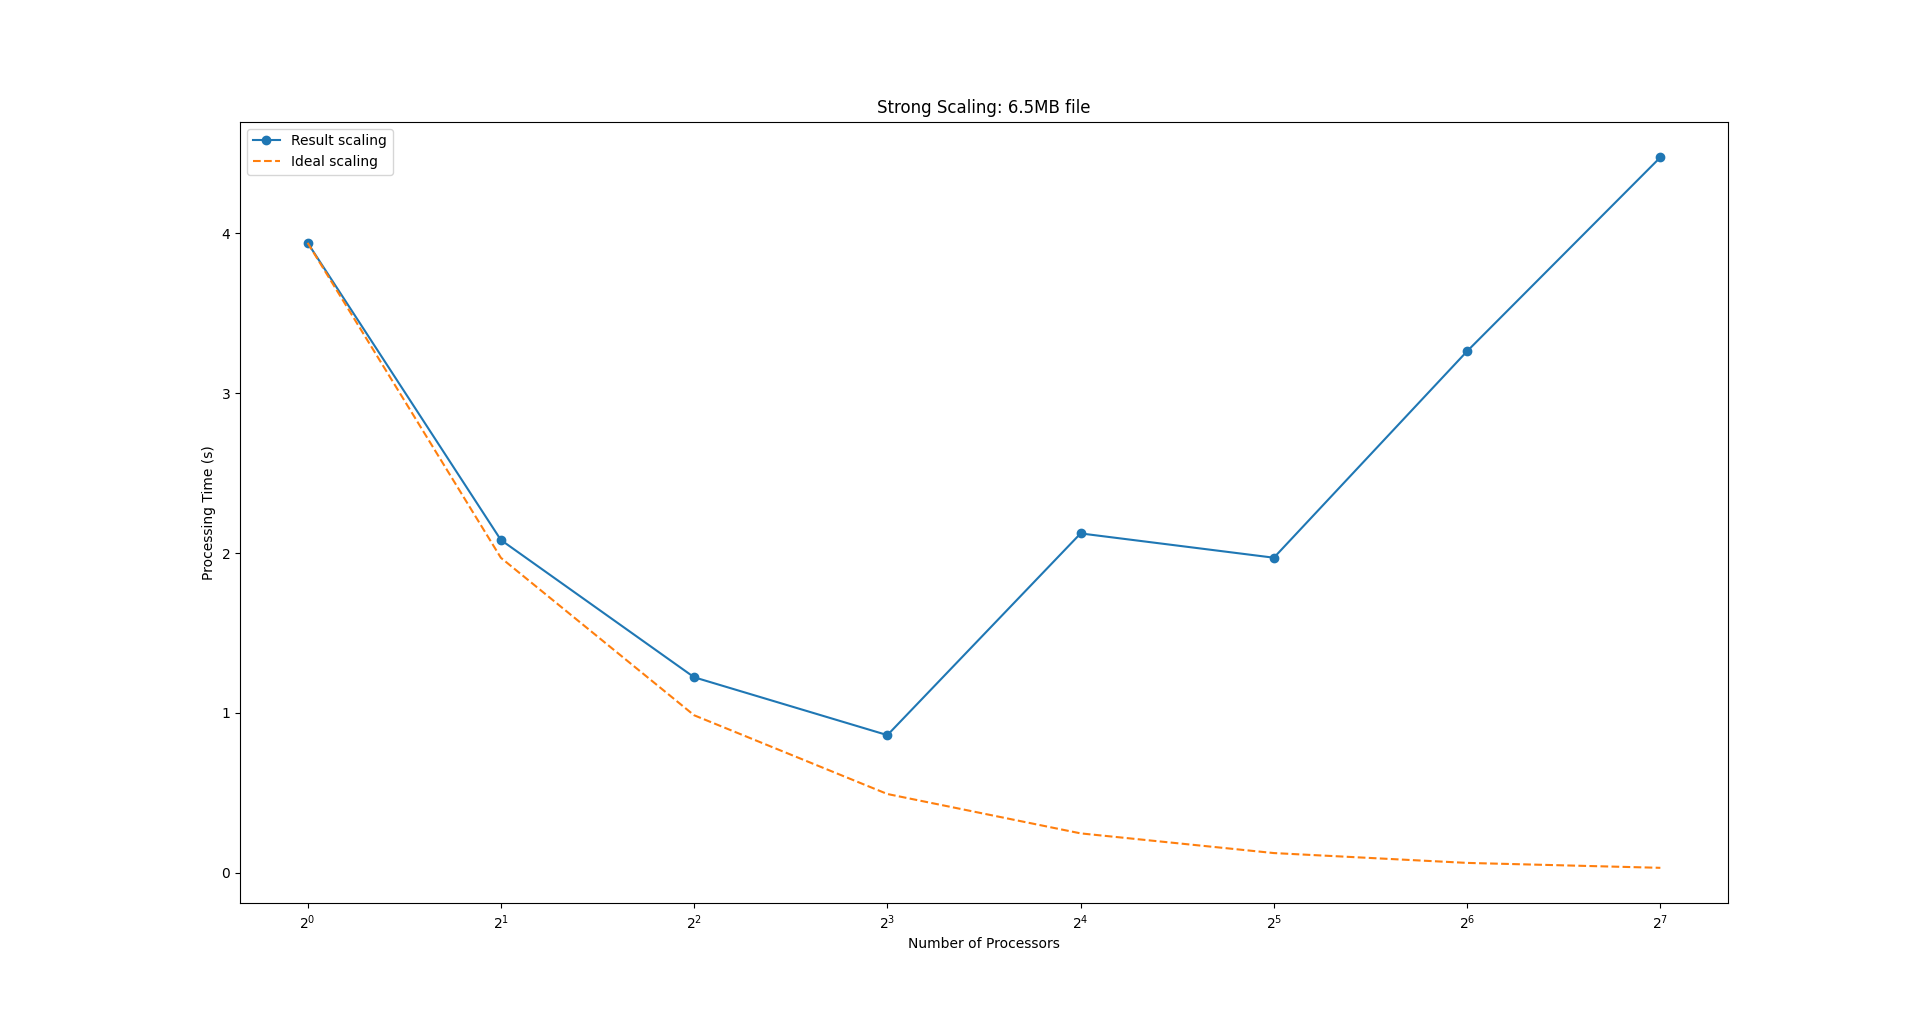
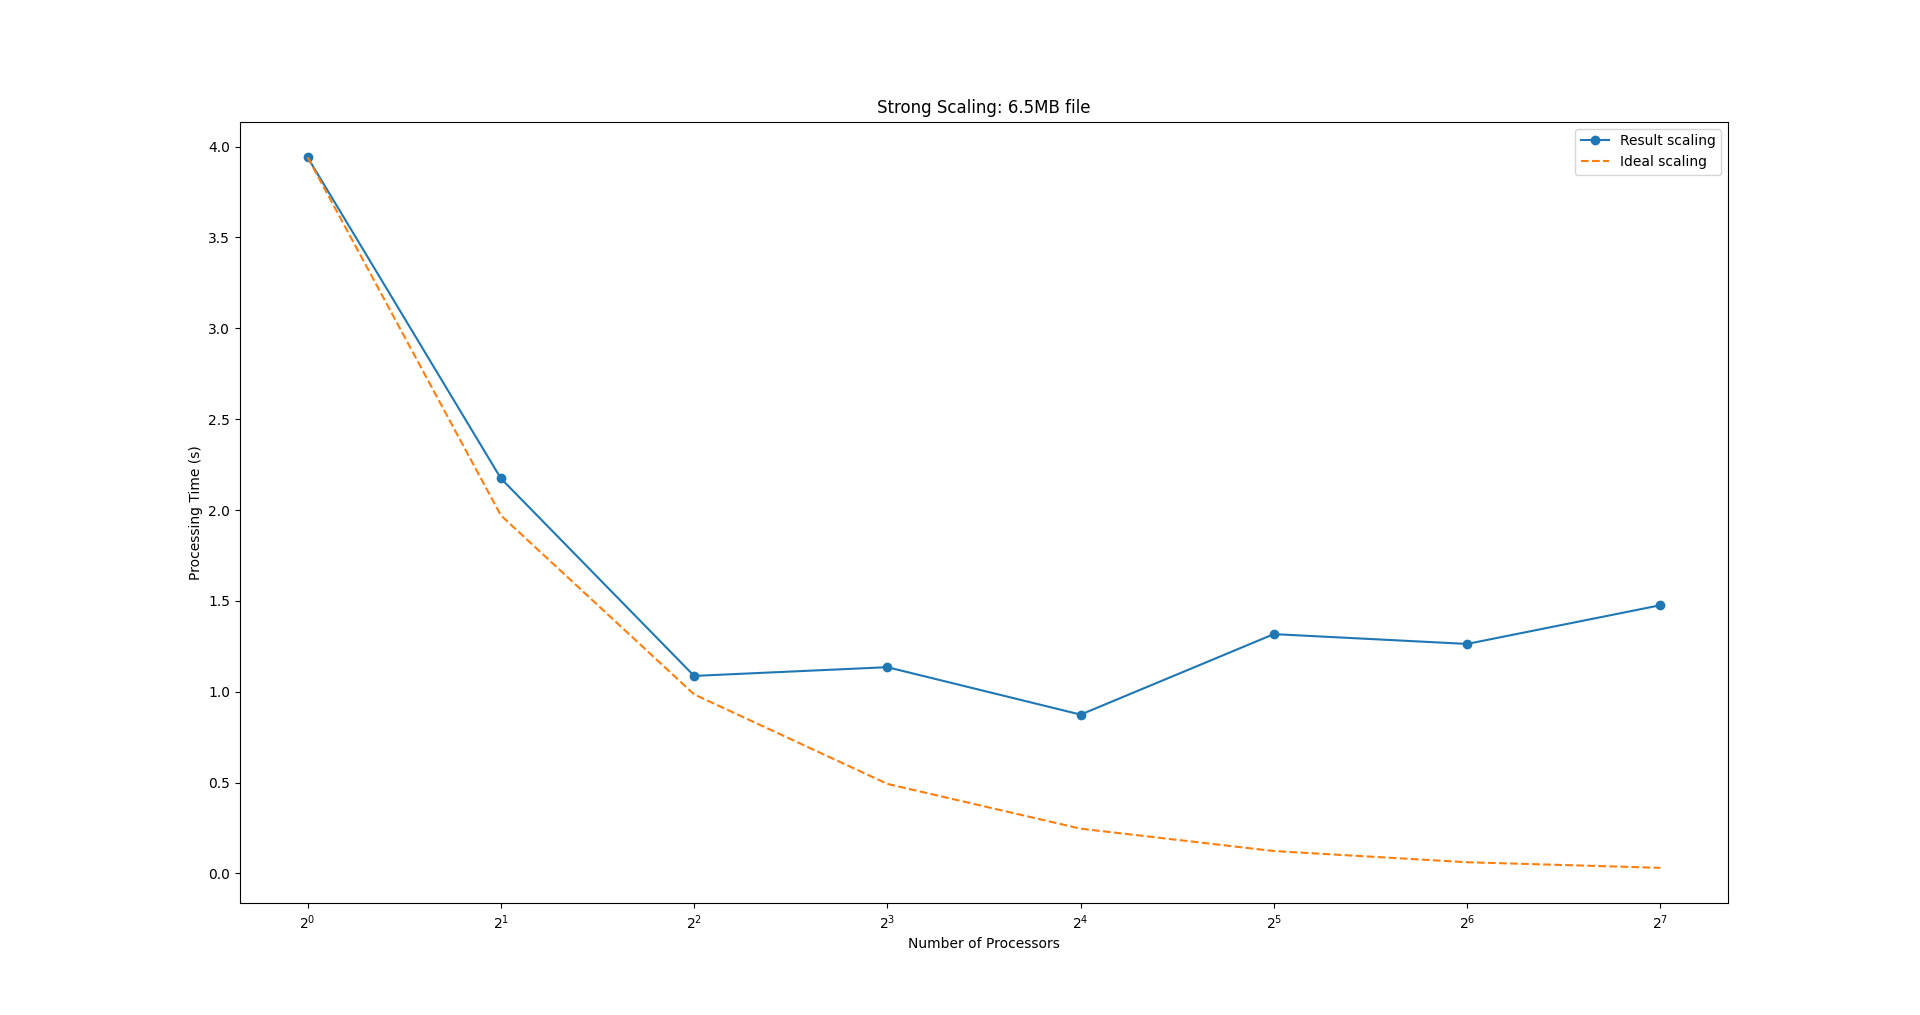
updated scripts and results

diff --git a/scripts/allStrongScalingPlotsGenerator.py b/scripts/allStrongScalingPlotsGenerator.py
@@ -6,24 +6,44 @@ times = [25.816, 13.985, 12.952, 5.208, 6.871, 6.784, 7.347, 12.588]
 num_procs = [1, 2, 4, 8, 16, 32, 64, 128]
 problem_sizes = [1000, 10000, 10000000, 50000000, 100000000, 200000000, 300000000]
 
-# encoding time
-# serial_times = [0.169, 0.205, 25.816, 122.013, 242.423, 505.358, 793.051]
-# parallel_times_02 = [0.228, 0.669, 13.985, 70.625, 142.407, 265.116, 391.978]
-# parallel_times_04 = [0.602, 0.479, 12.952, 39.043, 74.908, 141.161, 204.284]
-# parallel_times_08 = [1.234, 1.559, 5.208, 17.930, 66.223, 112.695, 116.508]
-# parallel_times_16 = [1.453, 3.792, 6.871, 26.834, 43.467, 69.234, 65.462]
-# parallel_times_32 = [1.949, 6.637, 6.784, 25.077, 46.756, 80.859, 95.969]
-# parallel_times_64 = [2.640, 4.852, 7.347, 12.595, 26.784, 35.200, 54.389]
+# # encoding time: without resource request
+# # serial_times = [0.169, 0.205, 25.816, 122.013, 242.423, 505.358, 793.051]
+# # parallel_times_02 = [0.228, 0.669, 13.985, 70.625, 142.407, 265.116, 391.978]
+# # parallel_times_04 = [0.602, 0.479, 12.952, 39.043, 74.908, 141.161, 204.284]
+# # parallel_times_08 = [1.234, 1.559, 5.208, 17.930, 66.223, 112.695, 116.508]
+# # parallel_times_16 = [1.453, 3.792, 6.871, 26.834, 43.467, 69.234, 65.462]
+# # parallel_times_32 = [1.949, 6.637, 6.784, 25.077, 46.756, 80.859, 95.969]
+# # parallel_times_64 = [2.640, 4.852, 7.347, 12.595, 26.784, 35.200, 54.389]
+# # parallel_times_128 = [12.334, 10.681, 12.588, 15.704, 26.541, 38.275, 55.148]
+#
+# # decoding time: without resource request
+# serial_times = [0.182, 0.247, 26.526, 120.928, 259.392, 510.843, 770.098]
+# parallel_times_02 = [0.587, 0.586, 15.652, 66.813, 135.695, 260.933, 393.236]
+# parallel_times_04 = [0.640, 0.565, 18.031, 44.436, 77.930, 148.644, 201.511]
+# parallel_times_08 = [1.028, 0.999, 11.890, 36.917, 49.655, 86.005, 147.186]
+# parallel_times_16 = [1.160, 1.202, 10.536, 29.439, 48.067, 72.573, 78.564]
+# parallel_times_32 = [1.949, 0.792, 14.895, 25.510, 34.972, 60.959, 72.995]
+# parallel_times_64 = [2.640, 4.852, 10.266, 17.791, 25.097, 57.127, 65.740]
 # parallel_times_128 = [12.334, 10.681, 12.588, 15.704, 26.541, 38.275, 55.148]
 
-# decoding time
+# encoding time: with resource request
+# serial_times = [0.169, 0.205, 25.816, 122.013, 242.423, 505.358, 793.051]
+# parallel_times_02 = [0.258, 0.390, 10.846, 54.874, 105.376, 276.372, 396.444]
+# parallel_times_04 = [0.334, 0.299, 7.549, 35.565, 73.963, 142.567, 195.128]
+# parallel_times_08 = [0.488, 0.536, 4.030, 19.892, 39.259, 78.560, 121.668]
+# parallel_times_16 = [0.559, 0.949, 5.483, 13.749, 22.764, 40.017, 65.231]
+# parallel_times_32 = [1.070, 1.188, 2.123, 7.256, 13.499, 289.985, 433.292]
+# parallel_times_64 = [1.726, 1.429, 2.504, 9.714, 12.002, 26.235, 37.125]
+# parallel_times_128 = [12.334, 10.681, 12.588, 15.704, 26.541, 38.275, 55.148]
+
+# decoding time: with resource request
 serial_times = [0.182, 0.247, 26.526, 120.928, 259.392, 510.843, 770.098]
-parallel_times_02 = [0.587, 0.586, 15.652, 66.813, 135.695, 260.933, 393.236]
-parallel_times_04 = [0.640, 0.565, 18.031, 44.436, 77.930, 148.644, 201.511]
-parallel_times_08 = [1.028, 0.999, 11.890, 36.917, 49.655, 86.005, 147.186]
-parallel_times_16 = [1.160, 1.202, 10.536, 29.439, 48.067, 72.573, 78.564]
-parallel_times_32 = [1.949, 0.792, 14.895, 25.510, 34.972, 60.959, 72.995]
-parallel_times_64 = [2.640, 4.852, 10.266, 17.791, 25.097, 57.127, 65.740]
+parallel_times_02 = [0.376, 0.259, 15.988, 63.450, 113.856, 223.158, 333.730]
+parallel_times_04 = [0.260, 0.491, 7.758, 40.862, 73.598, 149.255, 223.630]
+parallel_times_08 = [1.391, 1.397, 5.686, 24.645, 41.678, 82.557, 127.303]
+parallel_times_16 = [0.830, 0.702, 5.129, 15.075, 29.300, 49.836, 69.316]
+parallel_times_32 = [1.070, 0.594, 4.481, 137.126, 190.566, 30.613, 49.210]
+parallel_times_64 = [1.726, 1.429, 9.087, 11.896, 15.456, 28.693, 39.713]
 parallel_times_128 = [12.334, 10.681, 12.588, 15.704, 26.541, 38.275, 55.148]
 
 parallel_times = [serial_times, parallel_times_02, parallel_times_04, parallel_times_08, parallel_times_16, parallel_times_32, parallel_times_64, parallel_times_128]

diff --git a/scripts/singleWeakScalingPlotsGenerator.py b/scripts/singleWeakScalingPlotsGenerator.py
@@ -1,18 +1,17 @@
 import matplotlib.pyplot as plt
 
 problem_size = [1000, 10000, 10000000, 50000000, 100000000, 200000000, 300000000]
-
-# encoding time
-serial_times = [0.169, 0.205, 25.816, 122.013, 242.423, 505.358, 793.051]
-parallel_times_02 = [0.228, 0.669, 13.985, 70.625, 142.407, 265.116, 391.978]
-parallel_times_04 = [0.602, 0.479, 12.952, 39.043, 74.908, 141.161, 204.284]
-parallel_times_08 = [1.234, 1.559, 5.208, 17.930, 66.223, 112.695, 116.508]
-parallel_times_16 = [1.453, 3.792, 6.871, 26.834, 43.467, 69.234, 65.462]
-parallel_times_32 = [1.949, 6.637, 6.784, 25.077, 46.756, 80.859, 95.969]
-parallel_times_64 = [2.640, 4.852, 7.347, 12.595, 26.784, 35.200, 54.389]
-parallel_times_128 = [12.334, 10.681, 12.588, 15.704, 26.541, 38.275, 55.148]
-
-# # decoding time
+# # encoding time: without resource request
+# # serial_times = [0.169, 0.205, 25.816, 122.013, 242.423, 505.358, 793.051]
+# # parallel_times_02 = [0.228, 0.669, 13.985, 70.625, 142.407, 265.116, 391.978]
+# # parallel_times_04 = [0.602, 0.479, 12.952, 39.043, 74.908, 141.161, 204.284]
+# # parallel_times_08 = [1.234, 1.559, 5.208, 17.930, 66.223, 112.695, 116.508]
+# # parallel_times_16 = [1.453, 3.792, 6.871, 26.834, 43.467, 69.234, 65.462]
+# # parallel_times_32 = [1.949, 6.637, 6.784, 25.077, 46.756, 80.859, 95.969]
+# # parallel_times_64 = [2.640, 4.852, 7.347, 12.595, 26.784, 35.200, 54.389]
+# # parallel_times_128 = [12.334, 10.681, 12.588, 15.704, 26.541, 38.275, 55.148]
+#
+# # decoding time: without resource request
 # serial_times = [0.182, 0.247, 26.526, 120.928, 259.392, 510.843, 770.098]
 # parallel_times_02 = [0.587, 0.586, 15.652, 66.813, 135.695, 260.933, 393.236]
 # parallel_times_04 = [0.640, 0.565, 18.031, 44.436, 77.930, 148.644, 201.511]
@@ -20,6 +19,26 @@ parallel_times_128 = [12.334, 10.681, 12.588, 15.704, 26.541, 38.275, 55.148]
 # parallel_times_16 = [1.160, 1.202, 10.536, 29.439, 48.067, 72.573, 78.564]
 # parallel_times_32 = [1.949, 0.792, 14.895, 25.510, 34.972, 60.959, 72.995]
 # parallel_times_64 = [2.640, 4.852, 10.266, 17.791, 25.097, 57.127, 65.740]
+# parallel_times_128 = [12.334, 10.681, 12.588, 15.704, 26.541, 38.275, 55.148]
+
+# encoding time: with resource request
+serial_times = [0.169, 0.205, 25.816, 122.013, 242.423, 505.358, 793.051]
+parallel_times_02 = [0.258, 0.390, 10.846, 54.874, 105.376, 276.372, 396.444]
+parallel_times_04 = [0.334, 0.299, 7.549, 35.565, 73.963, 142.567, 195.128]
+parallel_times_08 = [0.488, 0.536, 4.030, 19.892, 39.259, 78.560, 121.668]
+parallel_times_16 = [0.559, 0.949, 5.483, 13.749, 22.764, 40.017, 65.231]
+parallel_times_32 = [1.070, 1.188, 2.123, 7.256, 13.499, 289.985, 433.292]
+parallel_times_64 = [1.726, 1.429, 2.504, 9.714, 12.002, 26.235, 37.125]
+parallel_times_128 = [12.334, 10.681, 12.588, 15.704, 26.541, 38.275, 55.148]
+
+# decoding time: with resource request
+# serial_times = [0.182, 0.247, 26.526, 120.928, 259.392, 510.843, 770.098]
+# parallel_times_02 = [0.376, 0.259, 15.988, 63.450, 113.856, 223.158, 333.730]
+# parallel_times_04 = [0.260, 0.491, 7.758, 40.862, 73.598, 149.255, 223.630]
+# parallel_times_08 = [1.391, 1.397, 5.686, 24.645, 41.678, 82.557, 127.303]
+# parallel_times_16 = [0.830, 0.702, 5.129, 15.075, 29.300, 49.836, 69.316]
+# parallel_times_32 = [1.070, 0.594, 4.481, 137.126, 190.566, 30.613, 49.210]
+# parallel_times_64 = [1.726, 1.429, 9.087, 11.896, 15.456, 28.693, 39.713]
 # parallel_times_128 = [12.334, 10.681, 12.588, 15.704, 26.541, 38.275, 55.148]
 
 # Plot the serial results
@@ -44,7 +63,7 @@ plt.legend()
 plt.xscale('log', base=10)
 plt.xlabel('Problem Size')
 plt.ylabel('Processing Time (ms)')
-plt.title('Weak scaling')
+plt.title('Encoding Weak scaling')
 
 # Show the plot
 plt.show()

diff --git a/scripts/speedupAndEfficiencyPlotsGenerator.py b/scripts/speedupAndEfficiencyPlotsGenerator.py
@@ -14,17 +14,17 @@ num_procs = [1, 2, 4, 8, 16, 32, 64, 128]
 
 problem_size = [1000, 10000, 10000000, 50000000, 100000000, 200000000, 300000000]
 
-# encoding time
-serial_times = [0.169, 0.205, 25.816, 122.013, 242.423, 505.358, 793.051]
-parallel_times_02 = [0.228, 0.669, 13.985, 70.625, 142.407, 265.116, 391.978]
-parallel_times_04 = [0.602, 0.479, 12.952, 39.043, 74.908, 141.161, 204.284]
-parallel_times_08 = [1.234, 1.559, 5.208, 17.930, 66.223, 112.695, 116.508]
-parallel_times_16 = [1.453, 3.792, 6.871, 26.834, 43.467, 69.234, 65.462]
-parallel_times_32 = [1.949, 6.637, 6.784, 25.077, 46.756, 80.859, 95.969]
-parallel_times_64 = [2.640, 4.852, 7.347, 12.595, 26.784, 35.200, 54.389]
-parallel_times_128 = [12.334, 10.681, 12.588, 15.704, 26.541, 38.275, 55.148]
-
-# # decoding time
+# # encoding time: without resource request
+# # serial_times = [0.169, 0.205, 25.816, 122.013, 242.423, 505.358, 793.051]
+# # parallel_times_02 = [0.228, 0.669, 13.985, 70.625, 142.407, 265.116, 391.978]
+# # parallel_times_04 = [0.602, 0.479, 12.952, 39.043, 74.908, 141.161, 204.284]
+# # parallel_times_08 = [1.234, 1.559, 5.208, 17.930, 66.223, 112.695, 116.508]
+# # parallel_times_16 = [1.453, 3.792, 6.871, 26.834, 43.467, 69.234, 65.462]
+# # parallel_times_32 = [1.949, 6.637, 6.784, 25.077, 46.756, 80.859, 95.969]
+# # parallel_times_64 = [2.640, 4.852, 7.347, 12.595, 26.784, 35.200, 54.389]
+# # parallel_times_128 = [12.334, 10.681, 12.588, 15.704, 26.541, 38.275, 55.148]
+#
+# # decoding time: without resource request
 # serial_times = [0.182, 0.247, 26.526, 120.928, 259.392, 510.843, 770.098]
 # parallel_times_02 = [0.587, 0.586, 15.652, 66.813, 135.695, 260.933, 393.236]
 # parallel_times_04 = [0.640, 0.565, 18.031, 44.436, 77.930, 148.644, 201.511]
@@ -32,6 +32,26 @@ parallel_times_128 = [12.334, 10.681, 12.588, 15.704, 26.541, 38.275, 55.148]
 # parallel_times_16 = [1.160, 1.202, 10.536, 29.439, 48.067, 72.573, 78.564]
 # parallel_times_32 = [1.949, 0.792, 14.895, 25.510, 34.972, 60.959, 72.995]
 # parallel_times_64 = [2.640, 4.852, 10.266, 17.791, 25.097, 57.127, 65.740]
+# parallel_times_128 = [12.334, 10.681, 12.588, 15.704, 26.541, 38.275, 55.148]
+
+# encoding time: with resource request
+serial_times = [0.169, 0.205, 25.816, 122.013, 242.423, 505.358, 793.051]
+parallel_times_02 = [0.258, 0.390, 10.846, 54.874, 105.376, 276.372, 396.444]
+parallel_times_04 = [0.334, 0.299, 7.549, 35.565, 73.963, 142.567, 195.128]
+parallel_times_08 = [0.488, 0.536, 4.030, 19.892, 39.259, 78.560, 121.668]
+parallel_times_16 = [0.559, 0.949, 5.483, 13.749, 22.764, 40.017, 65.231]
+parallel_times_32 = [1.070, 1.188, 2.123, 7.256, 13.499, 289.985, 433.292]
+parallel_times_64 = [1.726, 1.429, 2.504, 9.714, 12.002, 26.235, 37.125]
+parallel_times_128 = [12.334, 10.681, 12.588, 15.704, 26.541, 38.275, 55.148]
+
+# decoding time: with resource request
+# serial_times = [0.182, 0.247, 26.526, 120.928, 259.392, 510.843, 770.098]
+# parallel_times_02 = [0.376, 0.259, 15.988, 63.450, 113.856, 223.158, 333.730]
+# parallel_times_04 = [0.260, 0.491, 7.758, 40.862, 73.598, 149.255, 223.630]
+# parallel_times_08 = [1.391, 1.397, 5.686, 24.645, 41.678, 82.557, 127.303]
+# parallel_times_16 = [0.830, 0.702, 5.129, 15.075, 29.300, 49.836, 69.316]
+# parallel_times_32 = [1.070, 0.594, 4.481, 137.126, 190.566, 30.613, 49.210]
+# parallel_times_64 = [1.726, 1.429, 9.087, 11.896, 15.456, 28.693, 39.713]
 # parallel_times_128 = [12.334, 10.681, 12.588, 15.704, 26.541, 38.275, 55.148]
 
 parallel_times = [serial_times, parallel_times_02, parallel_times_04, parallel_times_08, parallel_times_16, parallel_times_32, parallel_times_64, parallel_times_128]

diff --git a/scripts/allWeakScalingPlotsGenerator.py b/scripts/allWeakScalingPlotsGenerator.py
@@ -2,17 +2,17 @@ import matplotlib.pyplot as plt
 
 problem_size = [1000, 10000, 10000000, 50000000, 100000000, 200000000, 300000000]
 
-# encoding time
-serial_times = [0.169, 0.205, 25.816, 122.013, 242.423, 505.358, 793.051]
-parallel_times_02 = [0.228, 0.669, 13.985, 70.625, 142.407, 265.116, 391.978]
-parallel_times_04 = [0.602, 0.479, 12.952, 39.043, 74.908, 141.161, 204.284]
-parallel_times_08 = [1.234, 1.559, 5.208, 17.930, 66.223, 112.695, 116.508]
-parallel_times_16 = [1.453, 3.792, 6.871, 26.834, 43.467, 69.234, 65.462]
-parallel_times_32 = [1.949, 6.637, 6.784, 25.077, 46.756, 80.859, 95.969]
-parallel_times_64 = [2.640, 4.852, 7.347, 12.595, 26.784, 35.200, 54.389]
-parallel_times_128 = [12.334, 10.681, 12.588, 15.704, 26.541, 38.275, 55.148]
-
-# decoding time
+# # encoding time: without resource request
+# # serial_times = [0.169, 0.205, 25.816, 122.013, 242.423, 505.358, 793.051]
+# # parallel_times_02 = [0.228, 0.669, 13.985, 70.625, 142.407, 265.116, 391.978]
+# # parallel_times_04 = [0.602, 0.479, 12.952, 39.043, 74.908, 141.161, 204.284]
+# # parallel_times_08 = [1.234, 1.559, 5.208, 17.930, 66.223, 112.695, 116.508]
+# # parallel_times_16 = [1.453, 3.792, 6.871, 26.834, 43.467, 69.234, 65.462]
+# # parallel_times_32 = [1.949, 6.637, 6.784, 25.077, 46.756, 80.859, 95.969]
+# # parallel_times_64 = [2.640, 4.852, 7.347, 12.595, 26.784, 35.200, 54.389]
+# # parallel_times_128 = [12.334, 10.681, 12.588, 15.704, 26.541, 38.275, 55.148]
+#
+# # decoding time: without resource request
 # serial_times = [0.182, 0.247, 26.526, 120.928, 259.392, 510.843, 770.098]
 # parallel_times_02 = [0.587, 0.586, 15.652, 66.813, 135.695, 260.933, 393.236]
 # parallel_times_04 = [0.640, 0.565, 18.031, 44.436, 77.930, 148.644, 201.511]
@@ -20,6 +20,26 @@ parallel_times_128 = [12.334, 10.681, 12.588, 15.704, 26.541, 38.275, 55.148]
 # parallel_times_16 = [1.160, 1.202, 10.536, 29.439, 48.067, 72.573, 78.564]
 # parallel_times_32 = [1.949, 0.792, 14.895, 25.510, 34.972, 60.959, 72.995]
 # parallel_times_64 = [2.640, 4.852, 10.266, 17.791, 25.097, 57.127, 65.740]
+# parallel_times_128 = [12.334, 10.681, 12.588, 15.704, 26.541, 38.275, 55.148]
+
+# encoding time: with resource request
+serial_times = [0.169, 0.205, 25.816, 122.013, 242.423, 505.358, 793.051]
+parallel_times_02 = [0.258, 0.390, 10.846, 54.874, 105.376, 276.372, 396.444]
+parallel_times_04 = [0.334, 0.299, 7.549, 35.565, 73.963, 142.567, 195.128]
+parallel_times_08 = [0.488, 0.536, 4.030, 19.892, 39.259, 78.560, 121.668]
+parallel_times_16 = [0.559, 0.949, 5.483, 13.749, 22.764, 40.017, 65.231]
+parallel_times_32 = [1.070, 1.188, 2.123, 7.256, 13.499, 289.985, 433.292]
+parallel_times_64 = [1.726, 1.429, 2.504, 9.714, 12.002, 26.235, 37.125]
+parallel_times_128 = [12.334, 10.681, 12.588, 15.704, 26.541, 38.275, 55.148]
+
+# decoding time: with resource request
+# serial_times = [0.182, 0.247, 26.526, 120.928, 259.392, 510.843, 770.098]
+# parallel_times_02 = [0.376, 0.259, 15.988, 63.450, 113.856, 223.158, 333.730]
+# parallel_times_04 = [0.260, 0.491, 7.758, 40.862, 73.598, 149.255, 223.630]
+# parallel_times_08 = [1.391, 1.397, 5.686, 24.645, 41.678, 82.557, 127.303]
+# parallel_times_16 = [0.830, 0.702, 5.129, 15.075, 29.300, 49.836, 69.316]
+# parallel_times_32 = [1.070, 0.594, 4.481, 137.126, 190.566, 30.613, 49.210]
+# parallel_times_64 = [1.726, 1.429, 9.087, 11.896, 15.456, 28.693, 39.713]
 # parallel_times_128 = [12.334, 10.681, 12.588, 15.704, 26.541, 38.275, 55.148]
 
 # Plot the parallel results

diff --git a/scripts/singleStrongScalingPlotsGenerator.py b/scripts/singleStrongScalingPlotsGenerator.py
@@ -3,8 +3,10 @@ import matplotlib.pyplot as plt
 num_procs = [1, 2, 4, 8, 16, 32, 64, 128]
 
 # for file size 6.5MB
-times = [3.941, 2.082, 1.223, 0.861, 2.123, 1.971, 3.263, 4.476]
-
+# without resource request
+#times = [3.941, 2.082, 1.223, 0.861, 2.123, 1.971, 3.263, 4.476]
+# with resource request
+times = [3.941, 2.174, 1.0870, 1.135, 0.874, 1.317, 1.263, 1.476]
 # Plot the results
 plt.plot(num_procs, times, '-o', label='Result scaling')
 plt.xscale('log', base=2)
